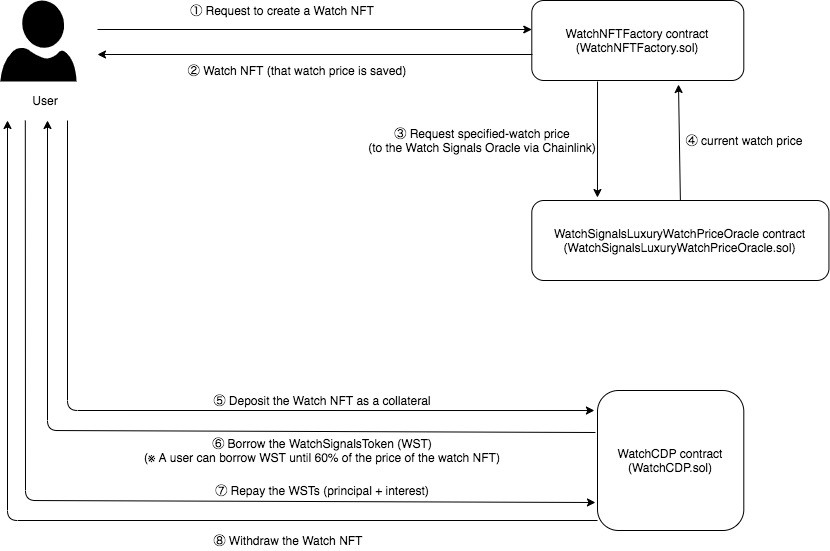
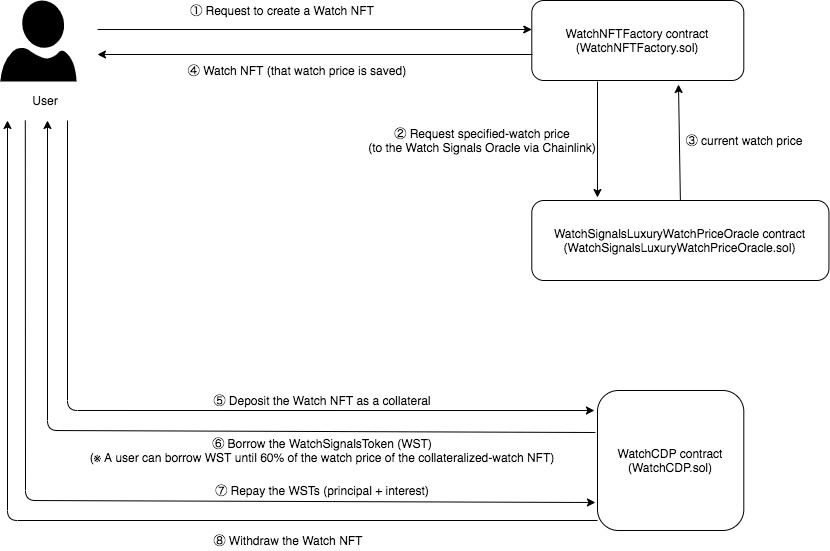
Fix Diagram

Changed region(s): [[0.1205, 0.8022, 0.6627, 0.8639], [0.8133, 0.2468, 0.8434, 0.2777]]

diff --git a/README.md b/README.md
@@ -9,7 +9,7 @@
   - A user deposit a `Watch NFT` into the WatchCDP Pool.
 
   - By depositing a `Watch NFT`, a user can borrow the WatchSignals Token (WST) from the WatchCDP Pool.
-    - A user can borrow the WatchSignals Token (WST) until 60% of watch price
+    - A user can borrow WST `until 60% of the watch price of the collateralized-watch NFT` .
     - This depositing (collateral) and borrowing structure is simlar to MakerDAO's CDP (MCD).
 
   - When a user above repay, a user repay the WatchSignals Token (include `principal + interest` ) to the WatchCDP Pool. 
@@ -27,7 +27,7 @@
 ## 【Workflow】
 - Diagram of workflow
   (※ The WatchCDP contract is also the WatchCDP Pool)
-![【Diagram】Watch NFT-based CDP (Collateralized Debt Position)](https://user-images.githubusercontent.com/19357502/114300719-a1af7a00-9afc-11eb-9d67-ea81343abdab.jpg)
+![【Diagram】Watch NFT-based CDP (Collateralized Debt Position)](https://user-images.githubusercontent.com/19357502/114325486-541e2600-9b6b-11eb-828f-b85976da759b.jpg)
 
 &nbsp;
 
